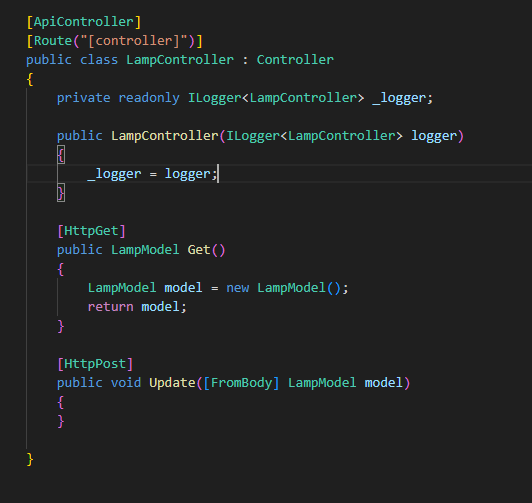
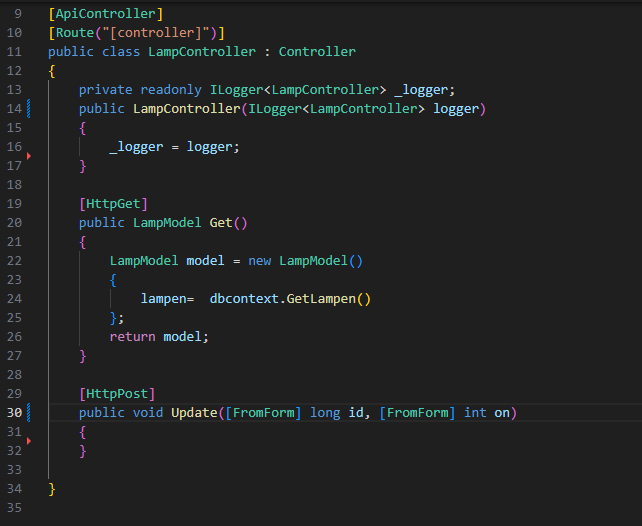
lamp

diff --git a/week7_edit/03 updatelamp.md b/week7_edit/03 updatelamp.md
@@ -1,0 +1,44 @@
+
+## Update aanpassen
+- open LampController
+
+- we passen update nog even aan:
+    > ![](img/update.PNG)
+
+- lees:
+    ```
+    we hebben nu meer functions op de dbContext gemaakt, deze zijn er nog niet!
+    Als alles gelukt is gaan we terug naar de Index van Home
+    ```
+
+## Get Lamp?
+
+- maak zelf de GetLamp function in LampDataContext. 
+    - lees de tips:
+        > - Gebruik GetLampen als voorbeeld
+        > - je hebt maar 1 lamp nodig, gebruik een where in je select en gebruik de id!
+
+## UpdateLamp
+
+- maak alvast de UpdateLamp function zonder vulling
+    - we kunnen bijna hetzelfde doen als bij de insert, alleen gebruiken we nu een update SQL statement:
+        > ![](img/update.PNG)
+
+## Aan en uit
+
+- test je site
+    - kan je nu de lampen aan en uit zetten?
+        > ![](img/aan.PNG)
+
+## css
+
+- gebruik css om het wat op te leuken:
+    > ![](img/css.PNG)
+
+## Klaar?
+
+- commit naar je repo voor dit vak
+
+https://learn.microsoft.com/en-us/dotnet/core/tools/dotnet-reference-add
+
+https://learn.microsoft.com/en-us/dotnet/core/tutorials/library-with-visual-studio-code

diff --git a/week7_edit/02 lamp vullen.md b/week7_edit/02 lamp vullen.md
@@ -60,12 +60,20 @@
     > ![](img/formperlamp.PNG)
 
 - lees:
-```
-zie je die Html.BeginForm? Daarmee zeggen we maak een html formulier
-die update en lamp strings worden de url:
-- http://localhost:5268/Lamp/Update
-   kijk in LampController naar de function Update
-```
+    ```
+    zie je die Html.BeginForm? Daarmee zeggen we maak een html formulier
+    die update en lamp strings worden de url:
+    - http://localhost:5268/Lamp/Update
+    kijk in LampController naar de function Update, zie je dat de update naam dan in de url zit?
+    ```
+
+## lampje aan of uit?
+
+- gebruik in Index.cshtml een if om te laten zien of de lamp aan of uit is
+    > ![](img/aanuit.PNG)
+
+
+
 ## Klaar?
 
 - commit naar je repo voor dit vak
